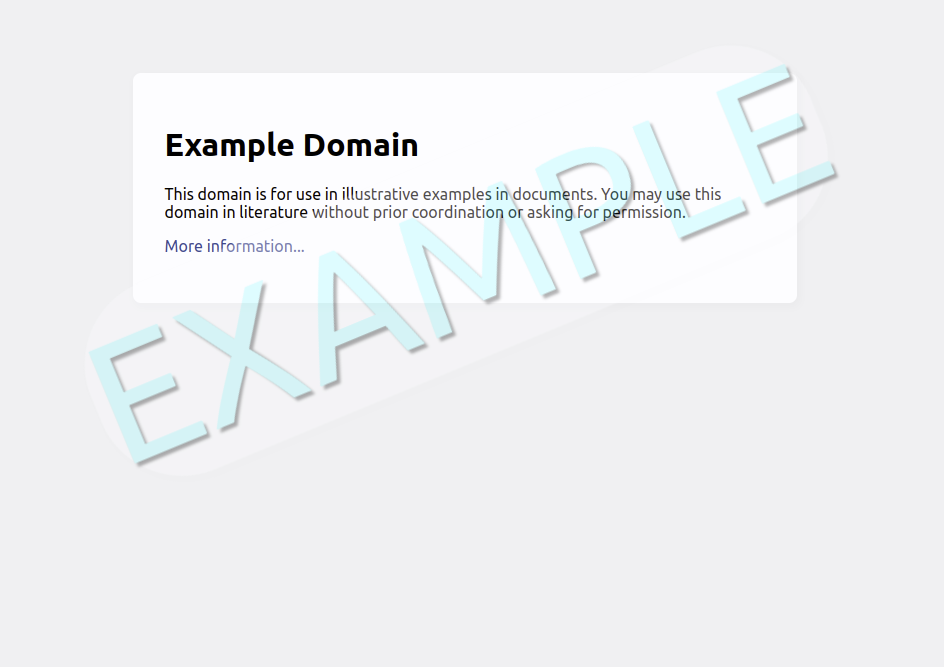
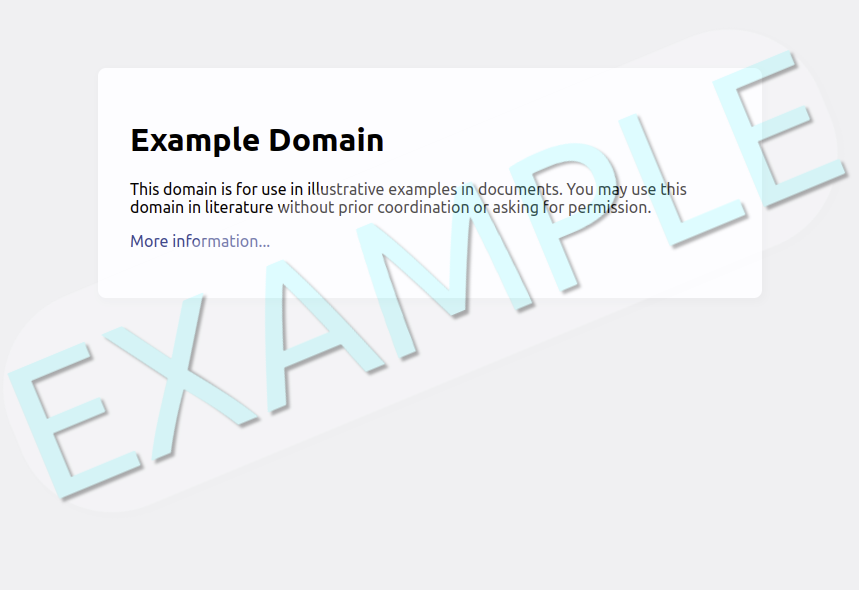
update example, unset css

Changed region(s): [[0.0, 0.0915, 0.9988, 0.8542], [0.5751, 0.4881, 0.6356, 0.5492], [0.6659, 0.4576, 0.6962, 0.4881]]

diff --git a/watermark.css b/watermark.css
@@ -10,4 +10,9 @@
   z-index: 9000;
   text-shadow: 2px 4px 3px rgb(0 0 0);
   pointer-events: none;
+  width: unset;
+  height: unset;
+  margin: unset;
+  padding: unset;
+  border: unset;
 }
